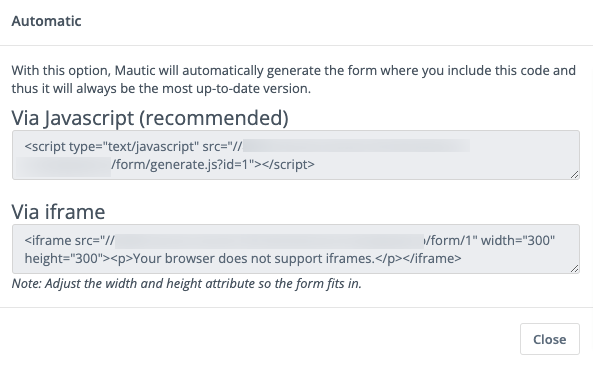
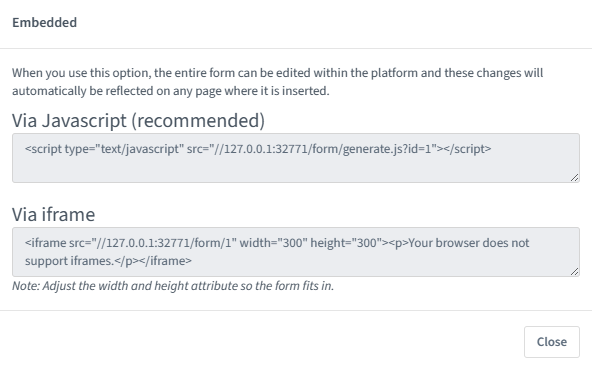
Embedded

diff --git a/docs/components/forms.rst b/docs/components/forms.rst
@@ -15,9 +15,9 @@ To create a new Form:
 #. Go to Components > Forms and click New
 #. Select the type of Form you wish to create
     * **Campaign Form** - Mautic allows you to trigger a Campaign with the submission of this type of Form. Campaign Forms have less actions directly associated with the Form submit actions - which happen immediately after Form submission - as most actions trigger as part of a Campaign workflow.
-    * **Standalone Form** - A more commonly used Form, this allows the execution of many submit actions immediately at the point of Form submission. 
+    * **Standalone Form** - A more commonly used Form, this allows the execution of many submit actions immediately at the point of Form submission.
 
-.. warning:: 
+.. warning::
     Forms with a lot of submit actions - particularly when submitting to third party systems such as a Customer Relationship Management system - can have an impact on the Form submission time. This is especially the case if there are a lot of fields. Consider using a Campaign Form if you can wait for the cron job to trigger the actions.
 
 The following fields are available:
@@ -42,7 +42,7 @@ The following fields are available:
 
 - **Theme** - Select a Mautic Theme which has styling for a Form. This dictates the styling of the Form when added to an external website or Application if 'Render style' is Yes.
 
-.. note:: 
+.. note::
     Not all Themes include Form styling. Check the Features column on your Themes listing in the Theme Manager to see which Themes include styling for Forms.
 
 .. vale off
@@ -85,7 +85,7 @@ To add a new field to your Form:
 
    - **Checkbox Group** - This field allows a visitor to select one or more options from a list using checkboxes. This field type can also provide a single checkbox - for example to gain consent to use cookies and send marketing Emails or other messages to the Contact.
 
-   .. note:: 
+   .. note::
       You can associate checkbox group fields with *boolean* and *select - multiple* fields, but not *select* fields.
 
    - **Date** - This field allows the visitor to select a date with a calendar picker. The formatting of the date applies the default setting in your Configuration.
@@ -98,7 +98,7 @@ To add a new field to your Form:
 
    - **File** - This allows visitors to upload a file on the Form.
 
-   .. warning:: 
+   .. warning::
       When using the file upload field there is a limit of 1,000 submissions using the same filename. Note that you can attach the submitted files in the "Send Form result" action.
 
    - **HTML area** - This field allows marketers to add custom HTML to their Form.
@@ -186,9 +186,9 @@ CAPTCHA
   :width: 600
   :alt: Screenshot showing CAPTCHA Form properties
 
-With a CAPTCHA field, the answer field should be blank if you are using this as a honeypot to trap spam submissions. This hides the field, and spambots try to populate the field with data. 
+With a CAPTCHA field, the answer field should be blank if you are using this as a honeypot to trap spam submissions. This hides the field, and spambots try to populate the field with data.
 
-Mautic recognizes if there's data in a honeypot CAPTCHA field and understands that it can't be a human submitting the Form. 
+Mautic recognizes if there's data in a honeypot CAPTCHA field and understands that it can't be a human submitting the Form.
 
 To have a human answer a basic question or statement - for example ``What's 2+2`` or ``Enter 'CAPTCHA' here`` - you would enter the expected input in the answer field, in this case, ``4`` or ``CAPTCHA``.  The field's label should be the question, or you can use the label CAPTCHA and then have the question as the input placeholder.
 
@@ -233,9 +233,9 @@ When uploading a file within a Form there are several options under the properti
 Attributes
 ~~~~~~~~~~
 
-   Attributes are CSS tags which change the styling of a particular Form. 
+   Attributes are CSS tags which change the styling of a particular Form.
 
-.. note:: 
+.. note::
    Setting the Render Style to No on the Form means that Mautic ignores the styling in these fields.
 
 .. image:: images/forms/checkbox_group_attributes.png
@@ -273,7 +273,7 @@ Form actions
 
 You may want to trigger certain actions to happen immediately after Form submission - this is what Form actions are for. This might include communications with the Contact, tracking, internal notifications, or other Contact management tasks.
 
-.. note:: 
+.. note::
    The Form actions available in Mautic are also available in Standalone Forms, which include more options as they're not associated with Campaigns. Campaigns tend to trigger most actions through Campaign actions so Forms associated with Campaigns only have a basic set of Form actions.
 
 - **Add to Company's Score**: if a Contact associated with a Company record in Mautic has submitted the Form, you can add or subtract Points to the Company's overall score. Company scoring in Mautic doesn't aggregate Points for all its associated Contacts. Any actions that you want to contribute to a Company's score must be explicitly set. Negative numbers are valid if you want to subtract from a Company's score based on a Contact submitting a Form. If the Contact isn't tracked and the Form doesn't include a field mapped to Company or Company Name - on the Company object - the Company has no Points awarded.
@@ -288,7 +288,7 @@ You may want to trigger certain actions to happen immediately after Form submiss
   :width: 600
   :alt: Screenshot showing the adjust Contact score Form action.
 
-- **Modify Contact's Segments**: this action allows you to change a Contact's Segment membership when they submit a Form. Type in the name of the Segment to add the Contact to or remove the Contact from. You can use both fields at the same time, and can include multiple Segments in either or both fields.  
+- **Modify Contact's Segments**: this action allows you to change a Contact's Segment membership when they submit a Form. Type in the name of the Segment to add the Contact to or remove the Contact from. You can use both fields at the same time, and can include multiple Segments in either or both fields.
 
 Dynamic Segments based on filters update based on information in the Contact record automatically - you don't need add them to the Segment in a Form action.
 
@@ -360,7 +360,7 @@ You can style the message itself as you like, and you can click to insert the su
 
 .. image:: images/forms/send_form_results.png
   :width: 600
-  :alt: Screenshot showing the send Form results action. 
+  :alt: Screenshot showing the send Form results action.
 
 .. vale off
 
@@ -383,22 +383,22 @@ When working with Mautic Landing Pages or common Content Management Systems (CMS
 - **Mautic Landing Page**: ``{form= ID#}``
 - **Drupal 7.x**: ``{mauticform id =ID# width=300 px height=300 px}`` - be sure to change the width and height to the appropriate size for your website.
 
-.. warning:: 
-  This shortcode doesn't work for Drupal 8.x - it's recommended to use the Automatic Copy option instead.
+.. warning::
+  This shortcode doesn't work for Drupal 8.x - it's recommended to use the Embedded option instead.
 
 - **Joomla!**: ``{mauticform ID#}``
 - **WordPress**: ``[mautic type="form" id=ID#]``
 
-Automatic copy
+Embedded
 ==============
 
 .. image:: images/forms/embed_form.png
   :width: 600
-  :alt: Screenshot showing the options for embedding a Mautic Form. 
+  :alt: Screenshot showing the options for embedding a Mautic Form.
 
-The Automatic option for embedding Mautic Forms uses JavaScript and ensures that the Forms on your website are always up to date with what you have set in Mautic. If you make changes to the Form in Mautic, you don't have to worry about re-copying the Form code everywhere you use the Form. Features including auto-fill and progressive profiling **only** works with the Automatic option.
+The Embedded option for embedding Mautic Forms uses JavaScript and ensures that the Forms on your website are always up to date with what you have set in Mautic. If you make changes to the Form in Mautic, you don't have to worry about re-copying the Form code everywhere you use the Form. Features including auto-fill and progressive profiling **only** works with the Embedded option.
 
-.. note:: 
+.. note::
   Before copying the code to embed your Mautic Forms, ensure that you are on the correct domain name - not a staging area or internal reference for example - as the Form embed code references the URL.
 
 Via JavaScript
@@ -420,11 +420,11 @@ Manual copy
 
 .. image:: images/forms/embed_form_manual.png
   :width: 600
-  :alt: Screenshot showing the options for manually embedding a Mautic Form. 
+  :alt: Screenshot showing the options for manually embedding a Mautic Form.
 
 The manual copy option does provide more flexibility to extend Forms with JavaScript snippets and custom styling, however it's a manual process and any changes made within Mautic after copying the code won't be automatically reflected on your website unless you re-copy and paste the new HTML code.
 
-.. note:: 
+.. note::
   Before copying the code to embed your Mautic Forms, ensure that you are on the correct domain name - not a staging area or internal reference for example - as the Form embed code references the URL.
 
 #. Copy the JavaScript code in the first box, and paste it into the head or body of your page. If you have multiple Mautic Forms on the same page, add this once only.
@@ -459,7 +459,7 @@ Adding conditional fields to a Mautic Form
 
 Once you have created the required Custom Fields, add the parent field to the Form as detailed previously, and add the relevant information in the tabs.
 
-.. note:: 
+.. note::
   When using conditional fields, only ``Select``, ``Select - Multiple`` and ``Boolean`` field types are valid as the parent field.
 
 .. image:: images/forms/conditional_fields_1.png
@@ -478,13 +478,13 @@ Once saved, an option displays to add a conditional field.
   :width: 600
   :alt: Screenshot showing option to add a field based on the value of an existing field
 
-In this example, select the ``Checkbox Group`` option, and under the Condition tab, choose ``including`` and ``Ford``.  
+In this example, select the ``Checkbox Group`` option, and under the Condition tab, choose ``including`` and ``Ford``.
 
 .. image:: images/forms/conditional_fields_4.png
   :width: 600
   :alt: Screenshot showing selection of parent field
 
-This means that when the visitor selects Ford, the Form displays this field. 
+This means that when the visitor selects Ford, the Form displays this field.
 
 There are two options:
 
